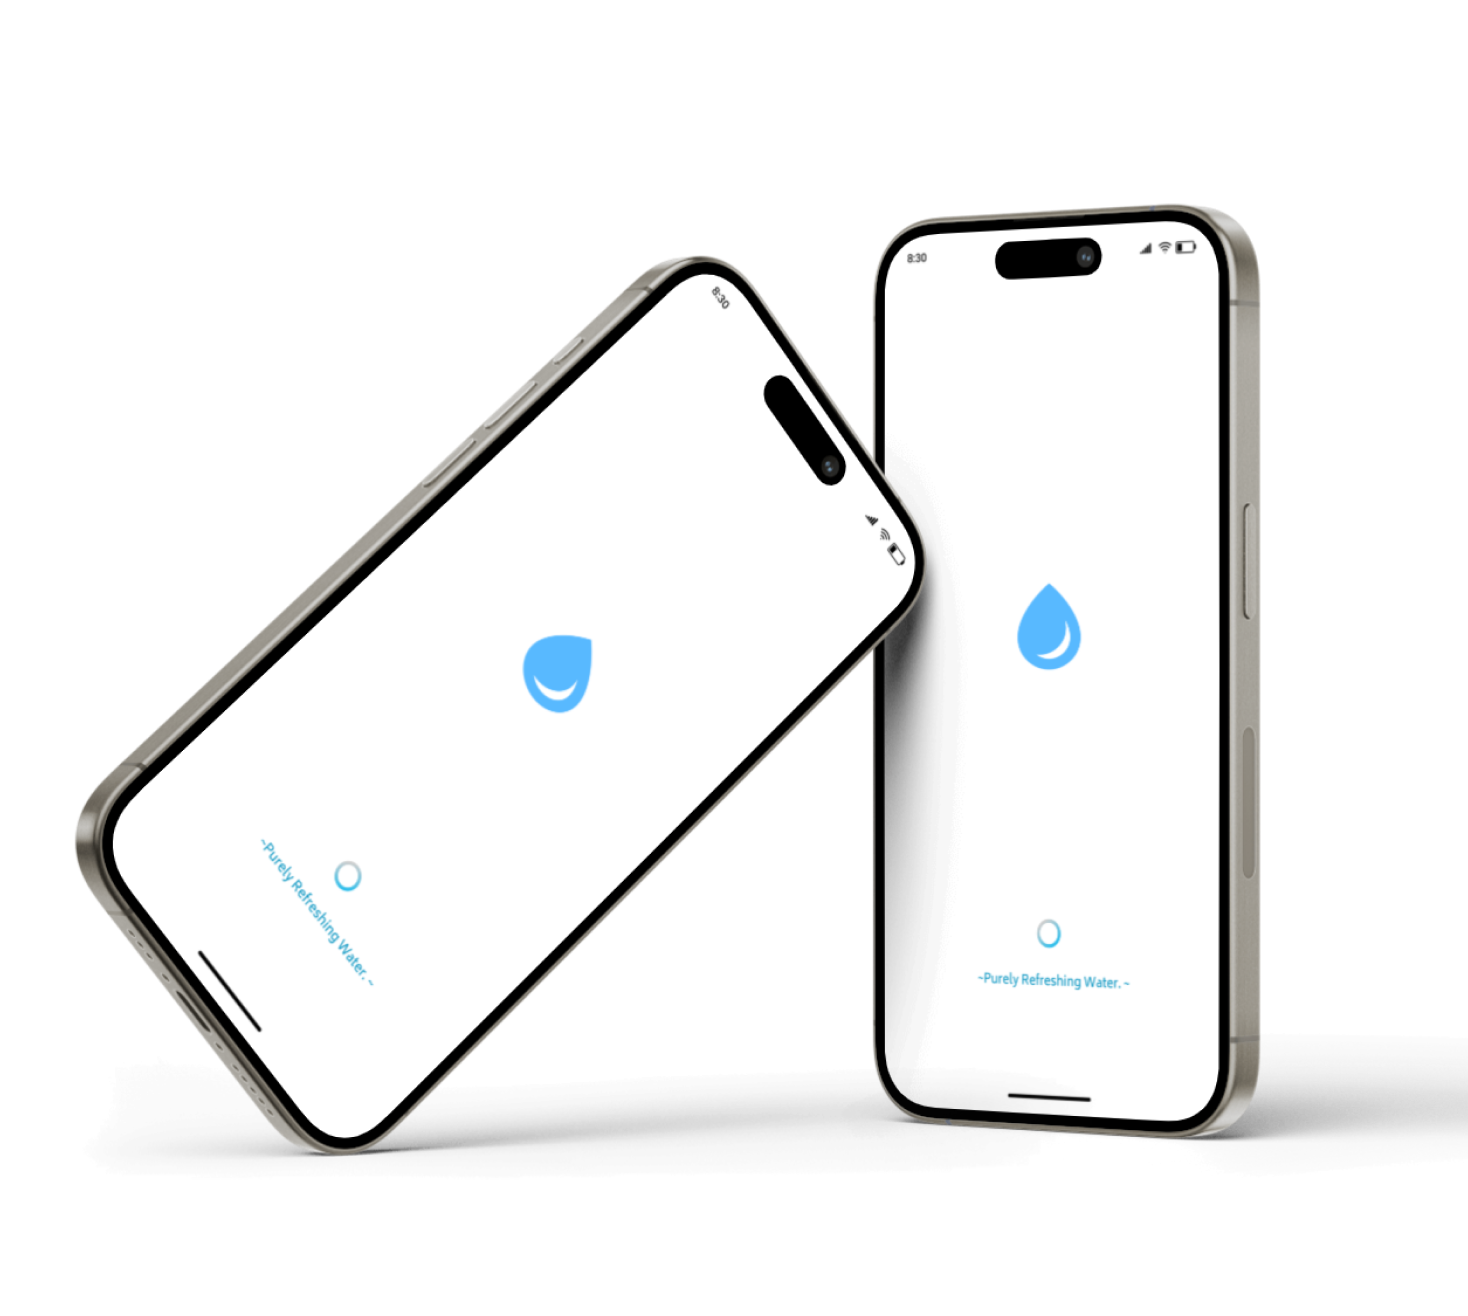
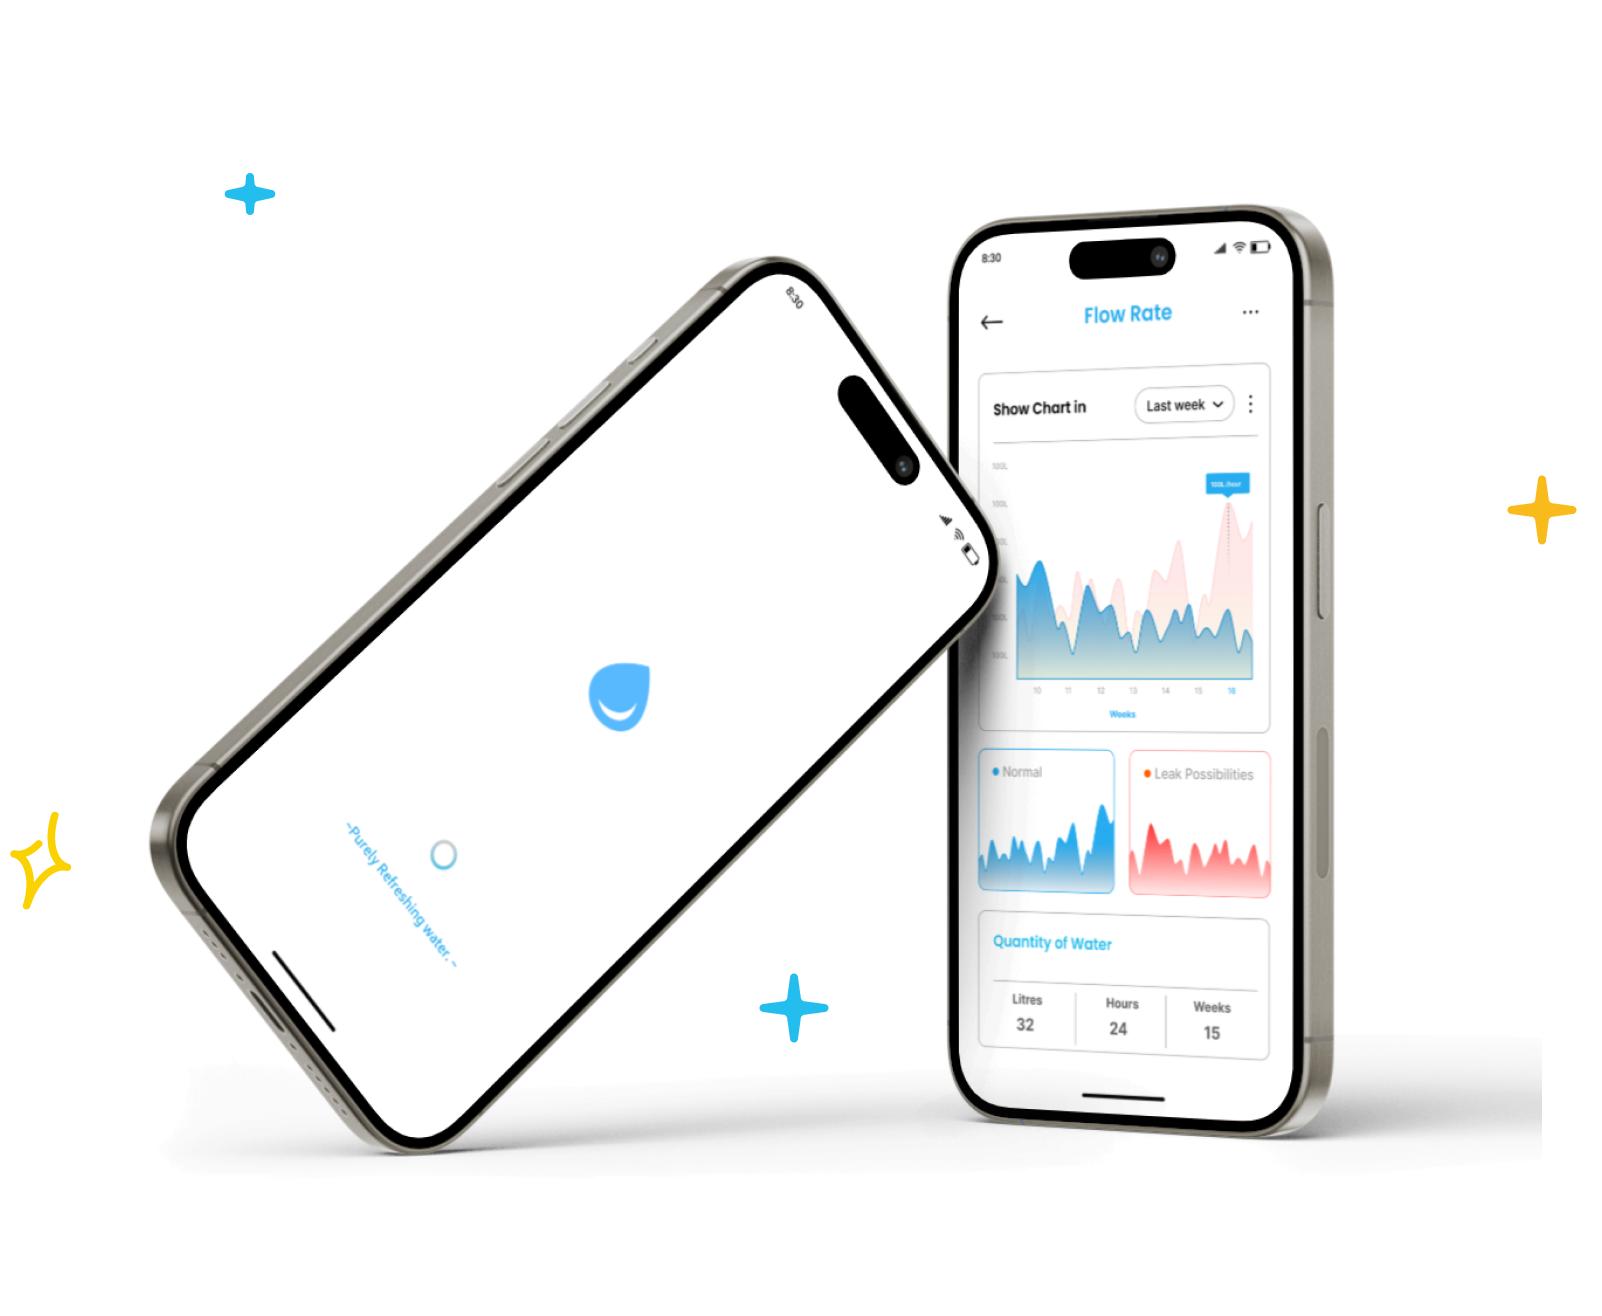
home page

diff --git a/src/components/Features.jsx b/src/components/Features.jsx
@@ -1,80 +1,105 @@
-import React from "react";
-import { MdOutlineSensors } from "react-icons/md";
-import { SiTransmission } from "react-icons/si";
-import { FaMixcloud } from "react-icons/fa";
-import { FaChevronRight } from "react-icons/fa";
+import React, { useState } from "react";
+import { VscGraphLine } from "react-icons/vsc";
+import { PiDetectiveThin } from "react-icons/pi";
+import { LuMonitorDot } from "react-icons/lu";
+import { MdOutlineInsights } from "react-icons/md";
+import { HiOutlineBellAlert } from "react-icons/hi2";
+import { IoIosArrowDown } from "react-icons/io";
+import { IoIosArrowUp } from "react-icons/io";
 
 function Features() {
+  const Features = [
+    {
+      icon: <VscGraphLine size={25} />,
+      feature: "Lorem ipsum dolor sit amet consectetur adipisicing elit",
+      description:
+        "Lorem ipsum dolor sit amet consectetur adipisicing elit Voluptatibus consequatur odit distinctio nulla dolorum, suscipit aut nam sed accusamus officiis hic, non repellendus eveniet corrupti. Ducimus inventore aut nam laborum?",
+    },
+    {
+      icon: <PiDetectiveThin size={25} />,
+      feature: "Lorem ipsum dolor sit amet consectetur adipisicing elit",
+      description:
+        "Lorem ipsum dolor sit amet consectetur adipisicing elit Voluptatibus consequatur odit distinctio nulla dolorum, suscipit aut nam sed accusamus officiis hic, non repellendus eveniet corrupti. Ducimus inventore aut nam laborum?",
+    },
+    {
+      icon: <LuMonitorDot size={25} />,
+      feature: "Lorem ipsum dolor sit amet consectetur adipisicing elit",
+      description:
+        "Lorem ipsum dolor sit amet consectetur adipisicing elit Voluptatibus consequatur odit distinctio nulla dolorum, suscipit aut nam sed accusamus officiis hic, non repellendus eveniet corrupti. Ducimus inventore aut nam laborum?",
+    },
+    {
+      icon: <MdOutlineInsights size={25} />,
+      feature: "Lorem ipsum dolor sit amet consectetur adipisicing elit",
+      description:
+        "Lorem ipsum dolor sit amet consectetur adipisicing elit Voluptatibus consequatur odit distinctio nulla dolorum, suscipit aut nam sed accusamus officiis hic, non repellendus eveniet corrupti. Ducimus inventore aut nam laborum?",
+    },
+    {
+      icon: <HiOutlineBellAlert size={25} />,
+      feature: "Lorem ipsum dolor sit amet consectetur adipisicing elit",
+      description:
+        "Lorem ipsum dolor sit amet consectetur adipisicing elit Voluptatibus consequatur odit distinctio nulla dolorum, suscipit aut nam sed accusamus officiis hic, non repellendus eveniet corrupti. Ducimus inventore aut nam laborum?",
+    },
+  ];
+  const [expandedIndex, setExpandedIndex] = useState(0);
+
+  const toggleExpand = (index) => {
+    setExpandedIndex((prevIndex) => (prevIndex === index ? 0 : index));
+  };
+
   return (
-    <div className="bg-[#F0F5EFBA] rounded-xl py-16 space-y-40">
-      <div className="space-y-6">
-        <button className="border-2 border-[#23BDEE] px-12 flex mx-auto text-[#23BDEE] hover:bg-[#23BDEE] hover:text-white rounded-2xl py-1 duration-500">
-          what we offer
+    <div className="py-32">
+      <div className="text-center space-y-6 ">
+        <button className="border-2 hover:font-semibold border-[#23BDEE] px-12 flex mx-auto text-[#23BDEE] hover:bg-[#23BDEE] hover:text-white rounded-2xl py-1 duration-500">
+          Our Features
         </button>
-        <p className="text-3xl font-lato font-normal text-center text-gray-800">
-          Proving Efficient and Accurate way of Water leakage detection
-        </p>
-        <p className="w-[40%] text-center mx-auto text-md text-gray-400">
-          With the help of real-time data we get from the environment, we are
-          able to allocate potential places that mostly experience leakage.
-          Basing on various factors data ia analyzed and used in decision making
+        <h1 className="text-2xl font-poppins ">
+          Introducing <span className="text-[#23BDEE]">Our</span> Features
+        </h1>
+        <p className="font-poppins text-gray-400 w-[50%] mx-auto">
+          Unique features of{" "}
+          <span className="text-[#23BDEE] text-md font-medium">Splash</span>{" "}
+          enable the system to respond with high accuracy and precision. This
+          enhance resources utilization and management.
         </p>
       </div>
-      <div className="flex justify-evenly ps-4">
-        <div className="bg-white rounded-2xl w-[30%] p-8 space-y-6 text-gray-800">
-          <div className="bg-gray-300 py-6 px-6 w-16 rounded-xl m-1">
-            <MdOutlineSensors />
-          </div>
-          <h1 className="font-lato text-2xl">On-Site Devices</h1>
-          <p className="text-md">
-            Devices on the site gathers real-time information from pipes. Data
-            collected here are analyzed to determine if there is leak or not.
-            These data are also used in decision making
-          </p>
-          <a
-            href="#"
-            className="text-[#23BDEE] flex items-center gap-4 hover:underline"
+      <div className="py-24 space-y-6">
+        {Features.map((item, index) => (
+          <div
+            key={index}
+            className="bg-gradient-to-r from-[#23BDEE]/5 to-[#23BDEE]/10 border border-[#23BDEE] rounded-xl p-6 space-y-6 duration-700"
           >
-            Read more
-            <FaChevronRight className="text-[#23BDEE]" />
-          </a>
-        </div>
-        <div className="bg-white rounded-2xl w-[30%] p-8 space-y-6 text-gray-800">
-          <div className="bg-gray-300 py-6 px-6 w-16 rounded-xl m-1">
-            <SiTransmission />
+            <div className="flex items-center justify-between">
+              <div className="flex gap-6 items-center">
+                {item.icon}
+                <h2 className="font-poppins text-gray-500 text-xl font-semibold">
+                  {item.feature}
+                </h2>
+              </div>
+              {expandedIndex === index ? (
+                <div
+                  className="rounded-full text-white p-1 bg-[#b7e5f3]"
+                  onClick={() => toggleExpand(index)}
+                >
+                  <IoIosArrowUp />
+                </div>
+              ) : (
+                <div
+                  className="rounded-full text-white p-1 bg-[#b7e5f3]"
+                  onClick={() => toggleExpand(index)}
+                >
+                  <IoIosArrowDown />
+                </div>
+              )}
+            </div>
+            {expandedIndex === index && (
+              <div>
+                <p className="font-poppins transition-all ease-in-out duration-700 text-gray-500">
+                  {item.description}
+                </p>
+              </div>
+            )}
           </div>
-          <h1 className="font-lato text-2xl">On-Site Devices</h1>
-          <p className="text-md">
-            Devices on the site gathers real-time information from pipes. Data
-            collected here are analyzed to determine if there is leak or not.
-            These data are also used in decision making
-          </p>
-          <a
-            href="#"
-            className="text-[#23BDEE] flex items-center gap-4 hover:underline"
-          >
-            Read more
-            <FaChevronRight className="text-[#23BDEE]" />
-          </a>
-        </div>
-        <div className="bg-white rounded-2xl w-[30%] p-8 space-y-6 text-gray-800">
-          <div className="bg-gray-300 py-6 px-6 w-16 rounded-xl m-1">
-            <FaMixcloud />
-          </div>
-          <h1 className="font-lato text-2xl">On-Site Devices</h1>
-          <p className="text-md">
-            Devices on the site gathers real-time information from pipes. Data
-            collected here are analyzed to determine if there is leak or not.
-            These data are also used in decision making
-          </p>
-          <a
-            href="#"
-            className="text-[#23BDEE] flex items-center gap-4 hover:underline"
-          >
-            Read more
-            <FaChevronRight className="text-[#23BDEE]" />
-          </a>
-        </div>
+        ))}
       </div>
     </div>
   );

diff --git a/src/components/What_we_offer.jsx b/src/components/What_we_offer.jsx
@@ -1,0 +1,83 @@
+import React from "react";
+import { MdOutlineSensors } from "react-icons/md";
+import { SiTransmission } from "react-icons/si";
+import { FaMixcloud } from "react-icons/fa";
+import { FaChevronRight } from "react-icons/fa";
+
+function WhatWeOffer() {
+  return (
+    <div className="bg-[#F0F5EFBA] rounded-xl py-16 space-y-40">
+      <div className="space-y-10">
+        <button className="border-2 hover:font-semibold border-[#23BDEE] px-12 flex mx-auto text-[#23BDEE] hover:bg-[#23BDEE] hover:text-white rounded-2xl py-1 duration-500">
+          what we offer
+        </button>
+        <p className="text-3xl font-poppins font-normal text-center text-gray-800">
+          Proving Efficient and Accurate way of Water leakage detection
+        </p>
+        <p className="w-[45%] text-center mx-auto text-md text-gray-400">
+          Using real-time environmental data, we can identify areas that are
+          most prone to leakage. By analyzing various factors, this data becomes
+          a valuable tool for informed decision-making.
+        </p>
+      </div>
+      <div className="flex justify-evenly ps-4">
+        <div className="bg-white rounded-2xl w-[30%] p-8 space-y-6 text-gray-800">
+          <div className="bg-gray-300 py-6 px-6 w-16 rounded-xl m-1">
+            <MdOutlineSensors />
+          </div>
+          <h1 className="font-lato text-2xl">On-Site Devices</h1>
+          <p className="text-md">
+            Devices on the site gathers real-time information from pipes. Data
+            collected here are analyzed to determine if there is leak or not.
+            These data are also used in decision making
+          </p>
+          <a
+            href="#"
+            className="text-[#23BDEE] flex items-center gap-4 hover:underline duration-700"
+          >
+            Read more
+            <FaChevronRight className="text-[#23BDEE]" />
+          </a>
+        </div>
+        <div className="bg-white rounded-2xl w-[30%] p-8 space-y-6 text-gray-800">
+          <div className="bg-gray-300 py-6 px-6 w-16 rounded-xl m-1">
+            <SiTransmission />
+          </div>
+          <h1 className="font-lato text-2xl">On-Site Devices</h1>
+          <p className="text-md">
+            Devices on the site gathers real-time information from pipes. Data
+            collected here are analyzed to determine if there is leak or not.
+            These data are also used in decision making
+          </p>
+          <a
+            href="#"
+            className="text-[#23BDEE] flex items-center gap-4 hover:underline duration-700"
+          >
+            Read more
+            <FaChevronRight className="text-[#23BDEE]" />
+          </a>
+        </div>
+        <div className="bg-white rounded-2xl w-[30%] p-8 space-y-6 text-gray-800">
+          <div className="bg-gray-300 py-6 px-6 w-16 rounded-xl m-1">
+            <FaMixcloud />
+          </div>
+          <h1 className="font-lato text-2xl">On-Site Devices</h1>
+          <p className="text-md">
+            Devices on the site gathers real-time information from pipes. Data
+            collected here are analyzed to determine if there is leak or not.
+            These data are also used in decision making
+          </p>
+          <a
+            href="#"
+            className="text-[#23BDEE] flex items-center gap-4 hover:underline duration-700"
+          >
+            Read more
+            <FaChevronRight className="text-[#23BDEE]" />
+          </a>
+        </div>
+      </div>
+    </div>
+  );
+}
+
+export default WhatWeOffer;

diff --git a/src/components/Intro.jsx b/src/components/Intro.jsx
@@ -7,7 +7,7 @@ function Intro() {
         <p className="text-2xl font-medium text-gray-500 tracking-wider">
           PREVENTING WATER LEAKAGE
         </p>
-        <h1 className="text-5xl font-semibold font-montserrat w-[70%] leading-snug">
+        <h1 className="text-5xl font-semibold font-poppins w-[70%] leading-snug">
           Water wastage solved in simple way,
           <span className="text-5xl px-12 text-green-300 font-Mixed font-bold">
             Splash
@@ -18,10 +18,28 @@ function Intro() {
           down to at least 20% every Year. We will implement the system in rural
           areas in the first place.
         </p>
-        <div className="flex gap-48">
-          <button className="bg-[#23BDEE] hover:bg-[#4098b3] rounded-3xl px-6 text-white font-lato font-medium">
-            How It Works
+        <div className="flex gap-10">
+          <button className="bg-[#23BDEE] hover:bg-[#4098b3] rounded-3xl px-6 text-white font-poppins font-semibold">
+            How it works
           </button>
+          <div class="flex items-center space-x-[-14px]">
+            <img
+              src="/images/user1.png"
+              alt="User 1"
+              className="w-12 h-12 rounded-full"
+            />
+
+            <img
+              src="/images/user2.png"
+              alt="User 2"
+              className="w-12 h-12 rounded-full"
+            />
+
+            <div className="w-12 h-12 rounded-full bg-black flex items-center justify-center text-white text-sm font-semibold">
+              4k+
+            </div>
+          </div>
+
           <div>
             <p className="font-lato font-bold text-2xl">15K</p>
             <p className=" text-md font-lato font-medium text-gray-400">

diff --git a/tailwind.config.js b/tailwind.config.js
@@ -1,17 +1,15 @@
 /** @type {import('tailwindcss').Config} */
 export default {
-  content: [
-    "./index.html",
-    "./src/**/*.{js,ts,jsx,tsx}",
-  ],
+  content: ["./index.html", "./src/**/*.{js,ts,jsx,tsx}"],
   theme: {
-    fontFamily:{
-      lato:["lato", "sans-serif"], 
-      montserrat:['montserrat', 'sans-serif'],
-      Poppins:['Poppins', 'sans-serif'],
-      Mixed:['Mixed' , 'sans-serif']
+    extend: {
+      fontFamily: {
+        lato: ["lato", "sans-serif"],
+        montserrat: ["montserrat", "sans-serif"],
+        poppins: ["Poppins", "sans-serif"],
+        Mixed: ["Mixed", "sans-serif"],
+      },
     },
-    extend: {},
   },
   plugins: [],
-}
+};

diff --git a/src/pages/Home.jsx b/src/pages/Home.jsx
@@ -1,6 +1,7 @@
 import React from "react";
 import Bar from "../components/LandingBar";
 import Intro from "../components/Intro";
+import WhatWeOffer from "../components/What_we_offer";
 import Features from "../components/Features";
 
 function Home() {
@@ -8,6 +9,7 @@ function Home() {
     <div className="w-[80%] mx-auto">
       <Bar />
       <Intro />
+      <WhatWeOffer />
       <Features />
     </div>
   );

diff --git a/src/components/Mission.jsx b/src/components/Mission.jsx
@@ -1,0 +1,7 @@
+import React from "react";
+
+function Mission() {
+  return <div></div>;
+}
+
+export default Mission;
